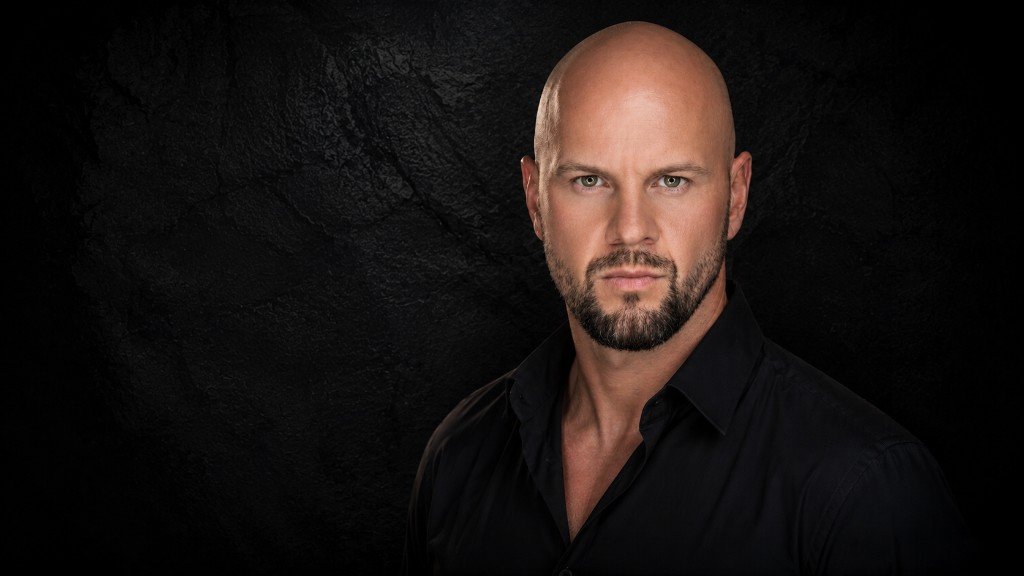
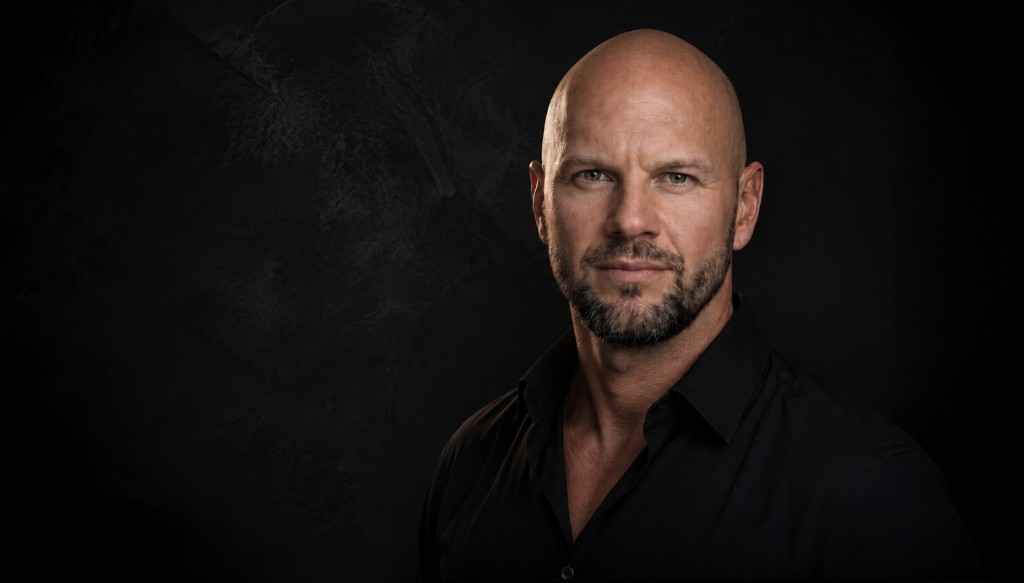
hero: vorheriges Anatoly-Portrait wiederhergestellt
- anatoly-mook-portrait-hero.png aus pre-9ce5cb5 git-tree restored
  (Studio-Portrait mit dunklem Stein-Hintergrund, Gesicht rechts platziert)
- HERO_PORTRAIT.height: 576 → 583 (natürliche Bildhöhe wiederhergestellt)
- object-position-Klassen für alle Breakpoints zurück auf alte Kalibrierung
  (max-[639px]:42%_56% → 2xl:56%_36%) — Gesicht bleibt zentriert sichtbar
- transformOrigin der Scroll-Parallax: 62% 32% → 54% 38%

Changed region(s): [[0.5, 0.0312, 0.75, 0.9375], [0.4062, 0.6875, 0.5, 0.7812], [0.375, 0.0938, 0.4062, 0.125]]

diff --git a/src/sections/HomeDynamic.tsx b/src/sections/HomeDynamic.tsx
@@ -733,14 +733,14 @@ export default function HomeDynamic() {
                 width={HERO_PORTRAIT.width}
                 height={HERO_PORTRAIT.height}
                 alt={HERO_PORTRAIT.altDe}
-                className="hero-portrait-img absolute inset-0 h-full w-full object-cover max-[639px]:object-[58%_30%] sm:object-[60%_30%] md:object-[60%_30%] lg:object-[62%_30%] xl:object-[63%_30%] 2xl:object-[64%_30%]"
+                className="hero-portrait-img absolute inset-0 h-full w-full object-cover max-[639px]:object-[42%_56%] sm:object-[46%_46%] md:object-[50%_42%] lg:object-[52%_40%] xl:object-[54%_38%] 2xl:object-[56%_36%]"
                 loading="eager"
                 fetchPriority="high"
                 decoding="async"
                 style={{
                   transform: `scale(${1.008 + scrollY * 0.00006})`,
                   transition: 'transform 0.1s linear',
-                  transformOrigin: '62% 32%'
+                  transformOrigin: '54% 38%'
                 }}
               />
             </picture>

diff --git a/src/constants/brandAssets.ts b/src/constants/brandAssets.ts
@@ -8,7 +8,7 @@ export const HERO_PORTRAIT = {
   pathBase: '/images/hero/anatoly-mook-portrait-hero',
   absPng: `${SITE_ORIGIN}/images/hero/anatoly-mook-portrait-hero.png`,
   width: 1024,
-  height: 576,
+  height: 583,
   /** Natürliche Sprache, Name + Rolle + Kontext (DE-Startseite). */
   altDe:
     'Anatoly Mook – Bewusstseinscoach, Mentor und Speaker für Führung und Transformation. Studio-Porträt vor dunklem, strukturiertem Hintergrund; Komposition mit Platz links für Typografie (Anatoly Mook Academy, Unna).'
